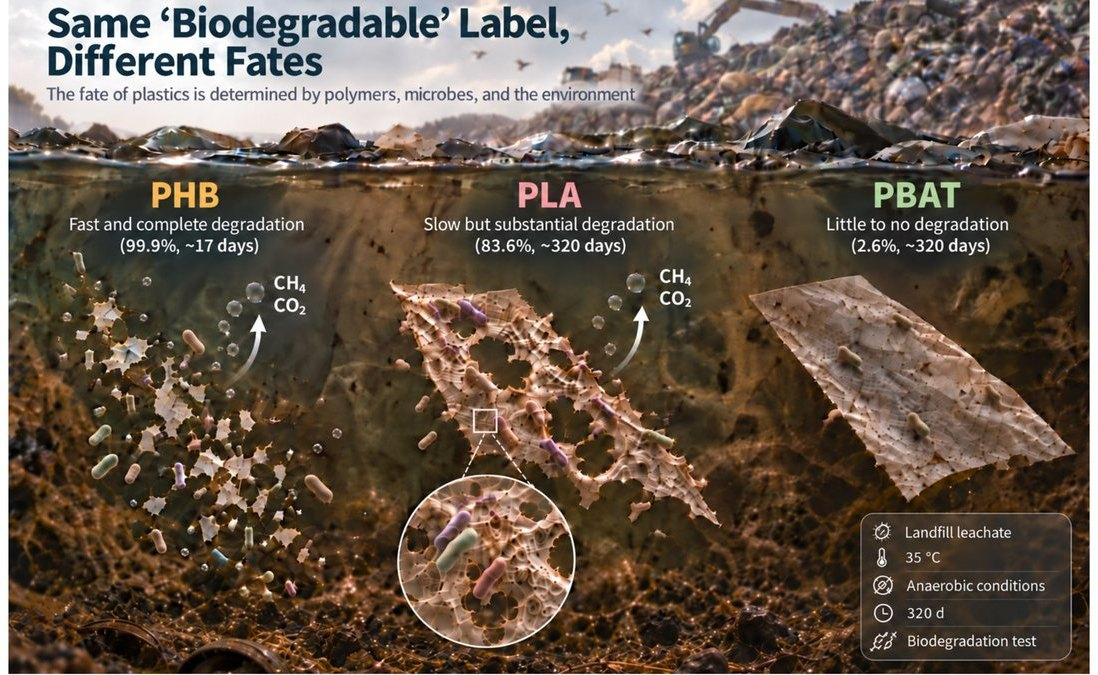
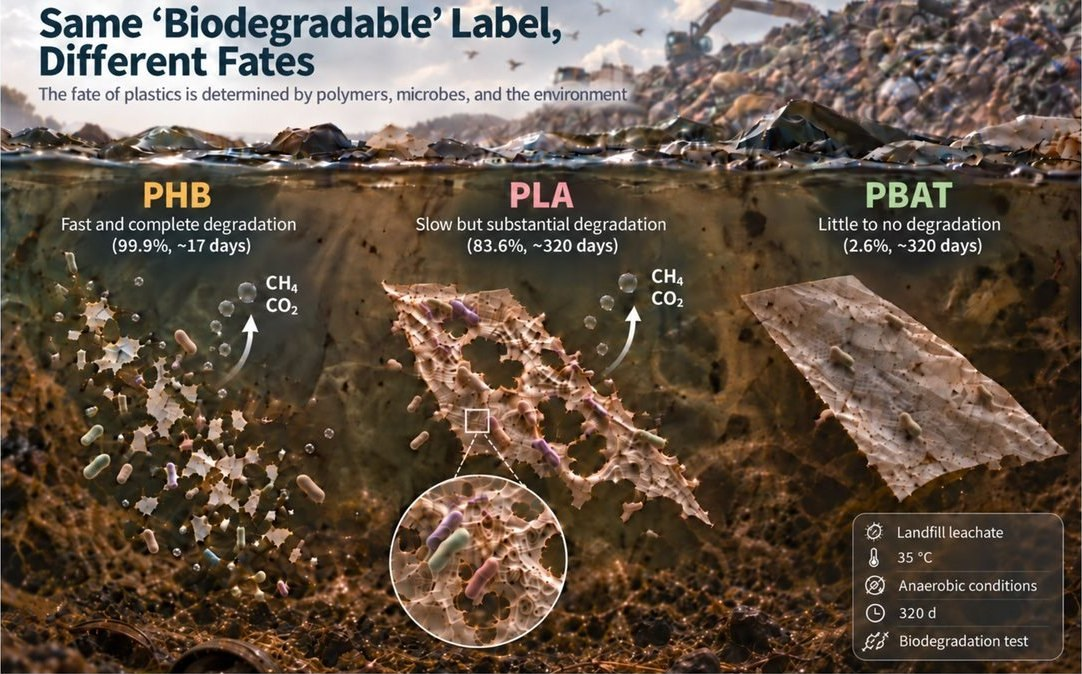
Add files via upload

diff --git a/_pages/publications.md b/_pages/publications.md
@@ -12,7 +12,7 @@ nav_order: 3
 <style>
   .pubs { margin-top: 6px; }
   .pubs h2 {
-    margin: 34px 0 10px;
+    margin: 26px 0 8px;
     font-size: 15px;
     font-weight: 700;
     letter-spacing: 0.08em;
@@ -26,23 +26,24 @@ nav_order: 3
     display: grid;
     grid-template-columns: 34px minmax(0, 1fr);
     gap: 10px;
-    padding: 13px 0;
+    padding: 9px 0;
     border-bottom: 1px solid rgba(128, 128, 128, 0.14);
   }
   .pubs .num { font-variant-numeric: tabular-nums; opacity: 0.45; font-weight: 600; padding-top: 1px; }
-  .pubs .au { line-height: 1.6; }
+  .pubs .au { line-height: 1.55; }
   .pubs .me { font-weight: 700; }
-  .pubs .ti { line-height: 1.5; margin-top: 2px; }
-  .pubs .so { line-height: 1.6; margin-top: 2px; opacity: 0.8; font-size: 0.95em; }
+  .pubs .ti { line-height: 1.45; margin-top: 1px; }
+  .pubs .so { line-height: 1.55; margin-top: 1px; opacity: 0.8; font-size: 0.95em; }
   .pubs .so em { font-style: italic; }
   .pubs .note { opacity: 0.75; }
   .pubs .doi {
     display: inline-block;
-    margin-top: 7px;
+    margin-left: 8px;
+    vertical-align: baseline;
     font-size: 12px;
     font-weight: 600;
     letter-spacing: 0.04em;
-    padding: 3px 9px;
+    padding: 1px 7px;
     border: 1px solid rgba(128, 128, 128, 0.45);
     border-radius: 4px;
     text-decoration: none;
@@ -83,8 +84,7 @@ nav_order: 3
   <div>
     <div class="au"><span class="me">S. Choe</span>†, H. Choi†, H. Moon, W. Shin, S. Park, H. Park, J. Lee, S. Yoon, K. Konstantinidis, C. Lee*, J. Myung*</div>
     <div class="ti">Divergent anaerobic fates of biodegradable plastics in landfill leachate.</div>
-    <div class="so"><em>Nat. Commun.</em> (2026).</div>
-    <a class="doi" href="https://doi.org/10.1038/s41467-026-78850-w">DOI</a>
+    <div class="so"><em>Nat. Commun.</em> (2026). <a class="doi" href="https://doi.org/10.1038/s41467-026-78850-w">DOI</a></div>
   </div>
 </li>
 
@@ -93,8 +93,7 @@ nav_order: 3
   <div>
     <div class="au">P.T.T. Ninh, <span class="me">S. Choe</span>, Y. Cho, H. Moon, J. Myung*</div>
     <div class="ti">All-water-based fabrication of biodegradable mulch films from dead leaves via complex hydrogen-bonded networks.</div>
-    <div class="so"><em>Green Chem.</em>, 28, 4449–4465 (2026). <span class="note">(Inside front journal cover article)</span></div>
-    <a class="doi" href="https://doi.org/10.1039/D5GC06616F">DOI</a>
+    <div class="so"><em>Green Chem.</em>, 28, 4449–4465 (2026). <span class="note">(Inside front journal cover article)</span> <a class="doi" href="https://doi.org/10.1039/D5GC06616F">DOI</a></div>
   </div>
 </li>
 
@@ -103,7 +102,7 @@ nav_order: 3
   <div>
     <div class="au">H. Shin, G. Pak, <span class="me">S. Choe</span>, H. Moon, J. Myung, H. Yu, W. Choi, J. Seo*</div>
     <div class="ti">Tailoring biodegradable copolyesters from bis(2-hydroxyethyl) terephthalate and aliphatic dicarboxylic acids: Toward sustainable packaging materials.</div>
-    <div class="so"><em>Sustain. Mater. Technol.</em>, 47, e01868 (2026).</div>
+    <div class="so"><em>Sustain. Mater. Technol.</em>, 47, e01868 (2026). <a class="doi" href="https://doi.org/10.1016/j.susmat.2026.e01868">DOI</a></div>
   </div>
 </li>
 
@@ -112,8 +111,7 @@ nav_order: 3
   <div>
     <div class="au">Y. Cho, S. Hwang, P.T.T. Ninh, Y. Kim, <span class="me">S. Choe</span>, J. Myung*</div>
     <div class="ti">Sustainable valorization of mandarin peel waste into multifunctional cellulose/pectin/PVA films with superior mechanical and UV-blocking performance.</div>
-    <div class="so"><em>RSC Sustain.</em> 4, 289–303 (2026).</div>
-    <a class="doi" href="https://doi.org/10.1039/D5SU00465A">DOI</a>
+    <div class="so"><em>RSC Sustain.</em> 4, 289–303 (2026). <a class="doi" href="https://doi.org/10.1039/D5SU00465A">DOI</a></div>
   </div>
 </li>
 
@@ -127,8 +125,7 @@ nav_order: 3
   <div>
     <div class="au">Y. Cho, P.T.T. Ninh, S. Hwang, <span class="me">S. Choe</span>, J. Myung*</div>
     <div class="ti">Sustainability meets functionality: Green design approaches to cellulose-based materials.</div>
-    <div class="so"><em>ACS Mater. Lett.</em> 7, 1563–1592 (2025). <span class="note">(Featured in the “Emerging Investigators in Materials Science” collection)</span></div>
-    <a class="doi" href="https://doi.org/10.1021/acsmaterialslett.4c02591">DOI</a>
+    <div class="so"><em>ACS Mater. Lett.</em> 7, 1563–1592 (2025). <span class="note">(Featured in the “Emerging Investigators in Materials Science” collection)</span> <a class="doi" href="https://doi.org/10.1021/acsmaterialslett.4c02591">DOI</a></div>
   </div>
 </li>
 
@@ -142,8 +139,7 @@ nav_order: 3
   <div>
     <div class="au"><span class="me">S. Choe</span>, S. You, K. Park, Y. Kim, J. Park, Y. Cho, J. Seo, H. Yang, J. Myung*</div>
     <div class="ti">Boric acid-crosslinked poly(vinyl alcohol): biodegradable, biocompatible, robust, and high-barrier paper coating.</div>
-    <div class="so"><em>Green Chem.</em> 26, 8230–8241 (2024). <span class="note">(Back journal cover article)</span></div>
-    <a class="doi" href="https://doi.org/10.1039/D4GC00618F">DOI</a>
+    <div class="so"><em>Green Chem.</em> 26, 8230–8241 (2024). <span class="note">(Back journal cover article)</span> <a class="doi" href="https://doi.org/10.1039/D4GC00618F">DOI</a></div>
   </div>
 </li>
 
@@ -152,8 +148,7 @@ nav_order: 3
   <div>
     <div class="au">Y. Kim†, <span class="me">S. Choe</span>†, Y. Cho, H. Moon, H. Shin, J. Seo, J. Myung*</div>
     <div class="ti">Biodegradation of poly(butylene adipate terephthalate) and poly(vinyl alcohol) within aquatic pathway.</div>
-    <div class="so"><em>Sci. Total Environ.</em> 953, 176129 (2024).</div>
-    <a class="doi" href="https://doi.org/10.1016/j.scitotenv.2024.176129">DOI</a>
+    <div class="so"><em>Sci. Total Environ.</em> 953, 176129 (2024). <a class="doi" href="https://doi.org/10.1016/j.scitotenv.2024.176129">DOI</a></div>
   </div>
 </li>
 
@@ -162,8 +157,7 @@ nav_order: 3
   <div>
     <div class="au">A. Camus†, <span class="me">S. Choe</span>†, C. Bour-Cardinal, J. Isasmendi, Y. Cho, Y. Kim, C. V. Irimia, C. Yumusak, M. Irimia-Vladu, D. Rho*, J. Myung*, C. Santato*</div>
     <div class="ti">Electrical response and biodegradation of Sepia melanin-shellac films printed on paper.</div>
-    <div class="so"><em>Commun. Mater.</em> 5, 173 (2024).</div>
-    <a class="doi" href="https://doi.org/10.1038/s43246-024-00592-3">DOI</a>
+    <div class="so"><em>Commun. Mater.</em> 5, 173 (2024). <a class="doi" href="https://doi.org/10.1038/s43246-024-00592-3">DOI</a></div>
   </div>
 </li>
 
@@ -172,7 +166,7 @@ nav_order: 3
   <div>
     <div class="au">S. Park, <span class="me">S. Choe</span>, H. Lee, J. Myung*</div>
     <div class="ti">Methylosinus trichosporium OB3b drives composition-independent application of biogas in poly(3-hydroxybutyrate) synthesis.</div>
-    <div class="so"><em>Fuel</em> 378, 132730 (2024).</div>
+    <div class="so"><em>Fuel</em> 378, 132730 (2024). <a class="doi" href="https://doi.org/10.1016/j.fuel.2024.132730">DOI</a></div>
   </div>
 </li>
 
@@ -181,7 +175,7 @@ nav_order: 3
   <div>
     <div class="au">K. Park, <span class="me">S. Choe</span>, K. Sadeghi, P. K. Panda, J. Myung, D. Kim, J. Seo*</div>
     <div class="ti">Effect of epichlorohydrin treatment on the coating process and performance of high-barrier paper packaging.</div>
-    <div class="so"><em>Food Chem.</em> 445, 138772 (2024).</div>
+    <div class="so"><em>Food Chem.</em> 445, 138772 (2024). <a class="doi" href="https://doi.org/10.1016/j.foodchem.2024.138772">DOI</a></div>
   </div>
 </li>
 
@@ -195,8 +189,7 @@ nav_order: 3
   <div>
     <div class="au"><span class="me">S. Choe</span>, Y. Kim, G. Park, D. H. Lee, J. Park, A. T. Mossisa, S. Lee, J. Myung*</div>
     <div class="ti">Biodegradation of 3D-printed biodegradable/non-biodegradable plastic blends.</div>
-    <div class="so"><em>ACS Appl. Polym. Mater.</em> 4, 5077–5090 (2022). <span class="note">(Supplementary journal cover article)</span></div>
-    <a class="doi" href="https://doi.org/10.1021/acsapm.2c00600">DOI</a>
+    <div class="so"><em>ACS Appl. Polym. Mater.</em> 4, 5077–5090 (2022). <span class="note">(Supplementary journal cover article)</span> <a class="doi" href="https://doi.org/10.1021/acsapm.2c00600">DOI</a></div>
   </div>
 </li>
 
@@ -210,8 +203,7 @@ nav_order: 3
   <div>
     <div class="au"><span class="me">S. Choe</span>, Y. Kim, Y. Won, J. Myung*</div>
     <div class="ti">Bridging three gaps in biodegradable plastics: misconceptions and truths about biodegradation.</div>
-    <div class="so"><em>Front. Chem.</em>, 9, 671750 (2021).</div>
-    <a class="doi" href="https://doi.org/10.3389/fchem.2021.671750">DOI</a>
+    <div class="so"><em>Front. Chem.</em>, 9, 671750 (2021). <a class="doi" href="https://doi.org/10.3389/fchem.2021.671750">DOI</a></div>
   </div>
 </li>
 

diff --git a/_pages/about.md b/_pages/about.md
@@ -108,12 +108,12 @@ latest_posts:
 
       <!-- ===== 큰 기사 ===== -->
       <article class="sc-feat">
-        <img src="{{ '/assets/img/news/2026-09-chem-circularity.jpg' | relative_url }}" alt="Hierarchical endpoints for biodegradability claims">
+        <img src="{{ '/assets/img/news/2026-10-nature-communications.jpg' | relative_url }}" alt="Same biodegradable label, different fates">
         <div class="sc-feat__b">
-          <span class="sc-kicker">Commentary</span>
-          <h3>Making biodegradability a defensible claim for circularity</h3>
-          <p class="sc-meta">Sep 2026 · Chem Circularity</p>
-          <p class="sc-ex">A Commentary, as first author, on what it takes for a biodegradability claim to hold up in a circularity context.</p>
+          <span class="sc-kicker">Publication</span>
+          <h3>Divergent anaerobic fates of biodegradable plastics in landfill leachate</h3>
+          <p class="sc-meta">Oct 2026 · Nature Communications</p>
+          <p class="sc-ex">A key study from his Ph.D. dissertation at KAIST, published as a co-first author, in collaboration with Prof. Changsoo Lee's group at UNIST.</p>
         </div>
       </article>
 
@@ -121,11 +121,11 @@ latest_posts:
       <div class="sc-side">
 
         <article class="sc-card">
-          <img src="{{ '/assets/img/news/2026-10-nature-communications.jpg' | relative_url }}" alt="Same biodegradable label, different fates">
+          <img src="{{ '/assets/img/news/2026-09-chem-circularity.jpg' | relative_url }}" alt="Hierarchical endpoints for biodegradability claims">
           <div class="sc-card__b">
             <span class="sc-kicker">Publication</span>
-            <h3>Divergent anaerobic fates of biodegradable plastics in landfill leachate</h3>
-            <p class="sc-meta">Oct 2026 · Nature Communications</p>
+            <h3>Making biodegradability a defensible claim for circularity</h3>
+            <p class="sc-meta">Sep 2026 · Chem Circularity</p>
           </div>
         </article>
 

diff --git a/_pages/introduction.md b/_pages/introduction.md
@@ -79,7 +79,7 @@ nav_order: 1
 <ul>
   <li>Biodegradability and environmental fate of polymers across natural and engineered systems</li>
   <li>Polymer–microbiome interactions and data-driven prediction of material persistence</li>
-  <li>Sustainable, bio-based, and environmentally safe polymeric materials</li>
+  <li>Sustainable, bio-based, and environmentally safe polymer materials</li>
 </ul>
 
 <h2>Education</h2>

diff --git a/_pages/research.md b/_pages/research.md
@@ -9,6 +9,12 @@ nav_order: 2
 
 {% include sc-custom.liquid %}
 
+<style>
+  /* 줄간격 아주 약간 넓힘 */
+  .post ul li, .post p { line-height: 1.82; }
+  .post ul li { margin-bottom: 5px; }
+</style>
+
 My research interests are:
 
 - Understanding the environmental biodegradation and fate of biodegradable plastics and water-soluble polymers

diff --git a/_pages/news.md b/_pages/news.md
@@ -2,7 +2,7 @@
 layout: page
 permalink: /news/
 title: News
-description: Talks, awards, papers and moves, newest first.
+description:
 nav: false # 상단 메뉴에는 넣지 않고, 홈의 "All news" 에서만 들어갑니다
 nav_order: 5
 ---
